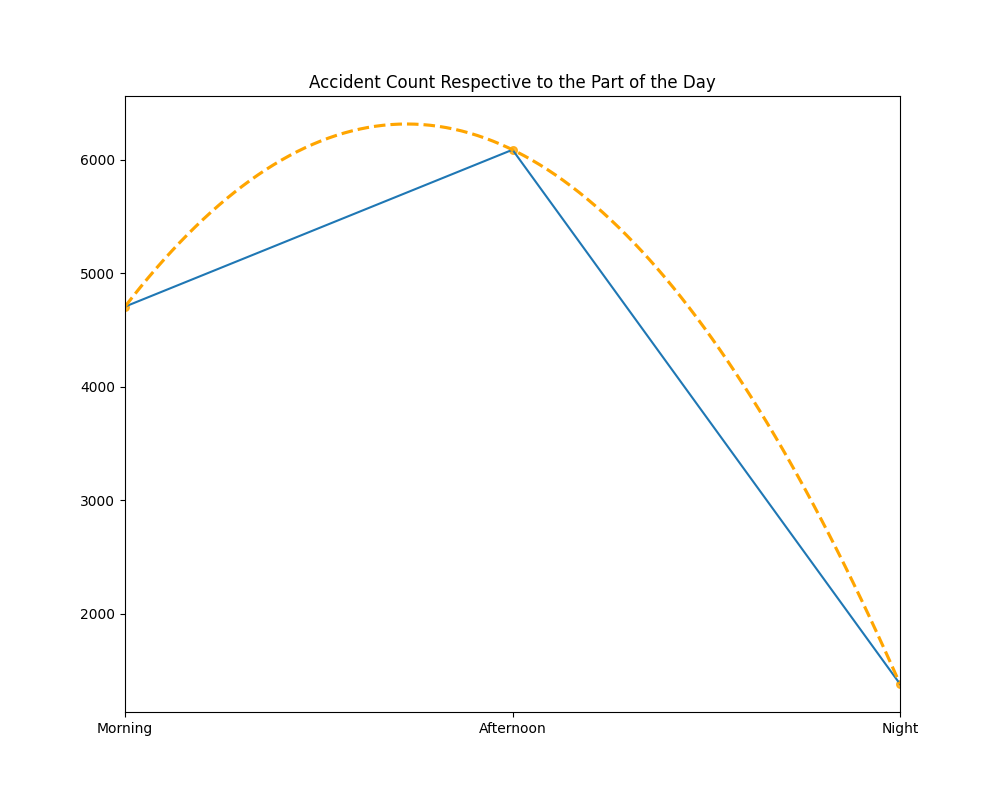
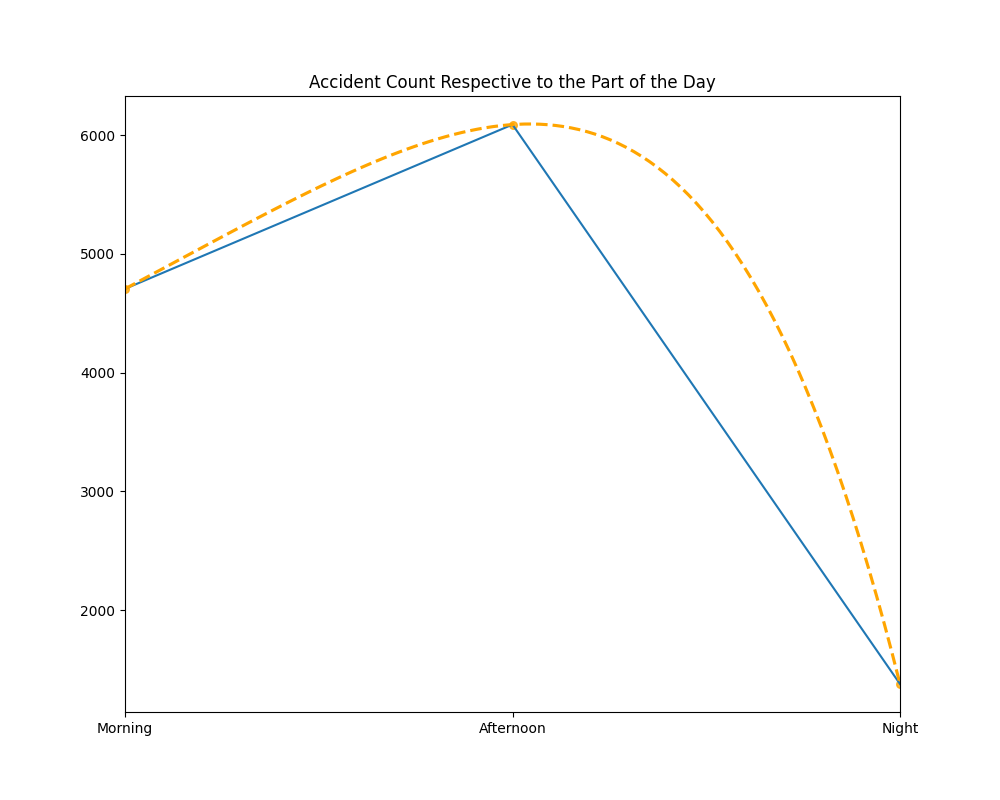
Add polynomial model

diff --git a/trends/AccidentTrends.py b/trends/AccidentTrends.py
@@ -1,9 +1,9 @@
 import pandas as pd
 import seaborn as sb
 import matplotlib.pyplot as plt
+import predictions.accident_during_time_of_day as time_of_day_accidents
 
 '''Trying to find trends within the data set'''
-
 
 def trends():
     # Read CSV
@@ -17,7 +17,7 @@ def trends():
     days_injuries_df = pd.DataFrame(days_injuries)
 
     # Reindex the rows because pandas sorts rows by string order
-    days_injuries_df=days_injuries_df.reindex(['Morning','Afternoon','Night'])
+    days_injuries_df = days_injuries_df.reindex(['Morning', 'Afternoon', 'Night'])
 
     # Plot dimensions
     plt.figure(figsize=(10, 8))
@@ -27,7 +27,7 @@ def trends():
 
     # Quadratic best fit since trend looked quadratic
     sb.regplot(range(3), [i[0] for i in days_injuries_df.values],
-               order=2, ci=None, scatter_kws={"s": 30}, color='orange', line_kws={'linestyle': '--'})
+               order=5, ci=None, scatter_kws={"s": 30}, color='orange', line_kws={'linestyle': '--'})
 
     sb.set_style('dark')
     plt.title('Accident Count Respective to the Part of the Day')
@@ -35,3 +35,5 @@ def trends():
     plt.savefig('./Population Graphs/AccidentTrends')
 
     plt.show()
+
+    time_of_day_accidents.make_prediction(df)

diff --git a/predictions/accident_during_time_of_day.py b/predictions/accident_during_time_of_day.py
@@ -1,0 +1,41 @@
+from sklearn.preprocessing import PolynomialFeatures
+from sklearn.linear_model import LinearRegression
+
+import numpy as np
+
+def make_prediction(df):
+
+    features = PolynomialFeatures(degree=2)
+
+    df['Days'] = generate_x(df)
+    x = df['Days']
+    y = df['Victims']
+
+    # Reshape x so I can transform features
+    x = np.array(x).reshape(-1,1)
+
+    X = features.fit_transform(x)
+
+    poly_model = LinearRegression()
+
+    poly_model.fit(X,y)
+
+    print("The model explains {:.2f}% of the accidents.".format(poly_model.score(X,y)*100))
+
+
+
+'''
+Since the x values are strings, I use numbers 0,1,2 as a way to distinguish them numerically. 
+'''
+def generate_x(df):
+    x = []
+    days = df['Part of the day']
+    for i in days:
+        if i == 'Morning':
+            x.append(0)
+        elif i == 'Afternoon':
+            x.append(1)
+        else:
+            x.append(2)
+    return x
+

diff --git a/Population.py b/Population.py
@@ -7,10 +7,10 @@ def graph_population():
 
 
     # Checking for nulls
-    print(df.isnull().sum().sum())
+    #print(df.isnull().sum().sum())
 
     # Group the total population per year from 2013-2017 (0-4)
     population_per_year = df.groupby('Year')['Number'].sum().reset_index()
-    print(population_per_year)
+    #print(population_per_year)
     plt.plot(population_per_year.Year, population_per_year.Number)
     plt.show()

diff --git a/Main.py b/Main.py
@@ -1,5 +1,4 @@
 import Population as population
-import AccidentPrediction as ap
 
 import trends.AccidentTrends as at
 
@@ -9,7 +8,6 @@ def main():
 
     at.trends()
 
-    ap.make_prediction()
 
 
 if __name__ == '__main__':
